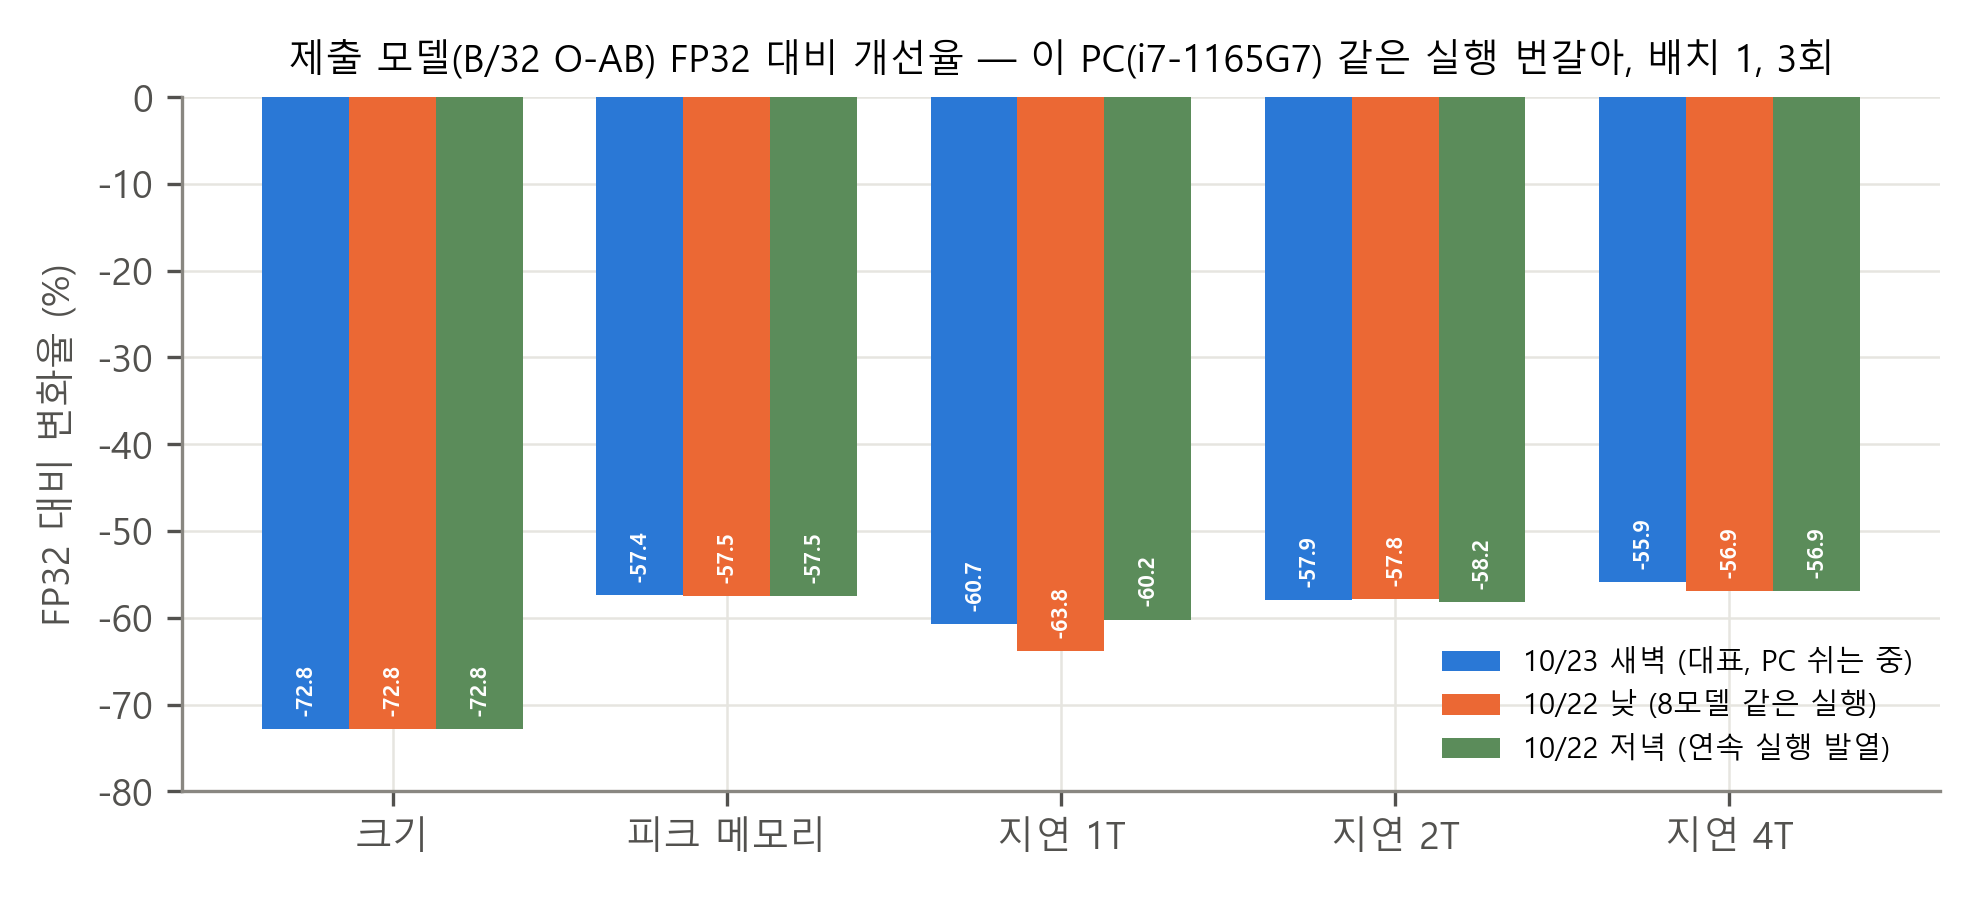
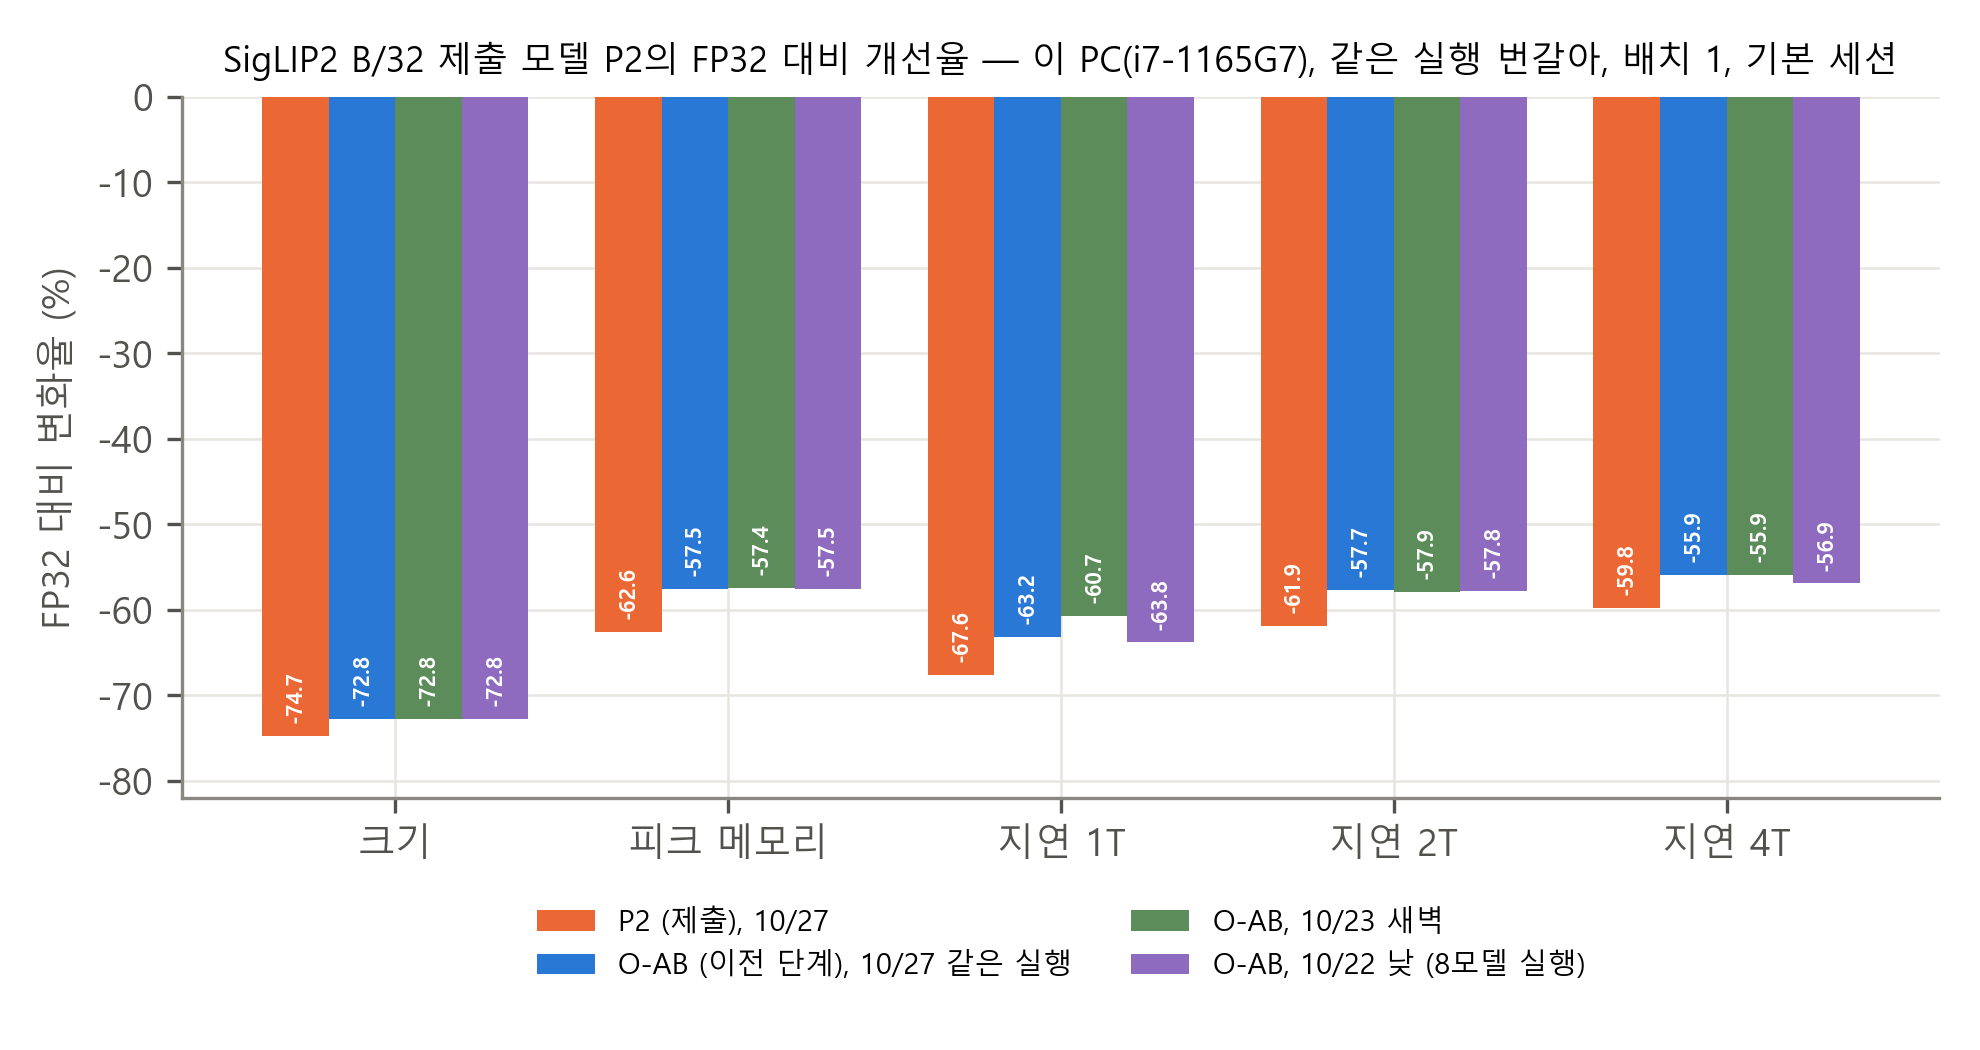
보고서·README v5: P2 기준 2차 반영 — F3b(P2 대표 + O-AB 3회), README 제출 파일·명령·기대값, 부록 B 설명 (test 값 대기)

diff --git a/siglip2/scripts/make_report_figs_b32.py b/siglip2/scripts/make_report_figs_b32.py
@@ -80,7 +80,7 @@ for name, (lat, p, key) in runs.items():
     f3[name] = {"크기": size, "피크 메모리": mem, "지연 1T": lat[1], "지연 2T": lat[2], "지연 4T": lat[4]}
 data["F3b"] = {"pct_vs_fp32": f3, "source": [str(p.relative_to(ROOT)) for _, p, _ in runs.values()]}
 items = list(next(iter(f3.values())))
-fig, ax = plt.subplots(figsize=(6.6, 3.0))
+fig, ax = plt.subplots(figsize=(6.6, 3.5))
 w = 0.2
 cols = ["#eb6834", "#2a78d6", "#5b8c5a", "#8e6bbf"]
 for i, (name, v) in enumerate(f3.items()):
@@ -92,7 +92,7 @@ ax.set_xticks(range(len(items)), items)
 ax.set_ylabel("FP32 대비 변화율 (%)")
 ax.set_ylim(-82, 0)
 ax.set_title("SigLIP2 B/32 제출 모델 P2의 FP32 대비 개선율 — 이 PC(i7-1165G7), 같은 실행 번갈아, 배치 1, 기본 세션", fontsize=8.5)
-ax.legend(fontsize=7, frameon=False, loc="lower right")
+ax.legend(fontsize=7, frameon=False, loc="upper center", bbox_to_anchor=(0.5, -0.12), ncol=2)
 fig.tight_layout()
 fig.savefig(OUT / "F3b_improvement_b32.png")
 plt.close(fig)

diff --git a/siglip2/README.md b/siglip2/README.md
@@ -1,41 +1,45 @@
 # SigLIP2 ViT-B/32 이미지 인코더 양자화 — 재현 방법
 
-대회 안내 4.2절 "재현용 코드 및 실행 환경"과 예선 결과보고서 9장에 해당하는 문서다 (v4, 2026-10-23 — 제출 모델 B/32 O-AB, D-048·D-049).
+대회 안내 4.2절 "재현용 코드 및 실행 환경"과 예선 결과보고서 9장에 해당하는 문서다 (v5, 2026-10-27 — 제출 모델 B/32 P2, D-048·D-052).
 실험 기록·결정은 `ROADMAP.md`, `DECISIONS.md`, `PROGRESS.md`, 결과는 루트 `results/siglip2/`에 있다.
 
-> **제출 모델 = SigLIP2 B/32 O-AB** (D-048·D-049): 레지스터 캐시 M2 + 회전 + O-A(MatMul 출력 재반올림 생략) + O-B(SkipLayerNorm 융합), 이미지 인코더 MatMul 79개 전부 INT8. 제출 모델 B/32의 test는 이 파일로 ORT 1회(`results/siglip2/G8_candidates/b32/test`), 본선 HEF로 Hailo 1회(준용 `B32_hef_test`) 썼다. 개발 초기 B/16 단계 이력은 보고서 부록 E.
+> **제출 모델 = SigLIP2 B/32 P2** (D-048·D-052): 레지스터 캐시 M2 + 회전 + O-A(MatMul 출력 재반올림 생략) + O-B(SkipLayerNorm 융합) + F2(GELU → FastGelu) + 패치 임베딩 정수화(정민 E14). 패치 임베딩을 포함한 행렬곱 80개 전부 INT8. 이전 제출 파일은 O-AB(`7a01044c…`, D-049)였다. B/32의 test는 ORT 2회(O-AB 10/22 `results/siglip2/G8_candidates/b32/test`, P2 10/27 `b32/test_p2`), 본선 HEF로 Hailo 1회(준용 `B32_hef_test`) 썼다. 교체는 test 전에 dev·지연·메모리로 확정했다(`b32/p2/README.md`). 개발 초기 B/16 단계 이력은 보고서 부록 E.
 > **본선 Hailo HEF**: 같은 PyTorch 모델(같은 회전 행렬·sink 규칙·M2 상수)에서 배치 1로 export한 FP32를 Hailo DFC로 컴파일한다. 본선 HEF는 GF로 정했다(D-050). ALL8F는 절제 실험이다 (준용 G6d·G6f·B32_hef_test).
 > **채점·재현은 배포한 ONNX 파일로 한다.** 다른 PC에서 다시 만들면 파일이 달라진다 (3절, 7절).
-> **onnxruntime으로 실행한다.** 제출 모델에 `com.microsoft` 연산(SkipLayerNormalization)이 있다.
+> **onnxruntime으로 실행한다.** 제출 모델에 `com.microsoft` 연산(SkipLayerNormalization 24, FastGelu 13)이 있다.
 
 ## 0. 무엇을 재현하나
 
 | 모델 | 파일 | 크기 | sha256 |
 |---|---|---|---|
 | 베이스라인 FP32 | `siglip2_image_fp32.onnx` | 378.36 MB (360.83 MiB) | `be19a8ada01055df…` |
[3 lines of base64/hex data omitted]
 | 비상 대체: M2rot INT8, 표준 연산만 (채점 환경이 com.microsoft 연산을 못 돌릴 때) | `siglip2_image_int8_g6b_b32_m2rot_percentile99999_highres256_s0_u8_ops-MatMul_hc16_rr_all.onnx` | 102.85 MB | `3a46ae8af54f3119…` (제출 모델과 같은 바탕 `23236123…`, 본선 HEF와 이어짐) |
 | (비교용) M2rot INT8, 이 PC 빌드 | `siglip2_image_int8_rcmaskbcmlp15at6u5-7at10u9_rothad_percentile99999_highres256_s0_u8_ops-MatMul_hc16_rr_all.onnx` | 102.85 MB | `9783d7defe8c0735…` (회전 행렬이 달라 본선 HEF와 이어지지 않음 — 대체 파일 아님) |
 
-- Release: 지금은 내부 확인용 pre-release `siglip2-b32-submit-20261023` (위 네 파일 + dev 6종 × 200장 묶음 + `portable_eval.py` + `SHA256SUMS*.txt` + 이 PC 결과 + 제출 파일을 만든 중간 파일 `23236123…` → `79e797c1…` → `506e9fe4…`). 최종 제출 Release는 따로 만든다.
-- 포맷: ONNX opset 17 + `com.microsoft` 1, 입력 `image` float32 N×3×256×256 (SigLIP2 전처리 후: 256×256, 평균·표준편차 0.5 정규화), 출력 `embedding` 768차원.
+- Release: 지금은 내부 확인용 pre-release 두 개다. `siglip2-b32-submit-20261023`(FP32·O-AB·M2rot 두 개 + dev 6종 × 200장 묶음 + `portable_eval.py` + `SHA256SUMS*.txt` + 이 PC 결과 + 중간 파일 `23236123…` → `79e797c1…` → `506e9fe4…`), `siglip2-p2-20261027`(P2, F2 `03f4de18…`, SHA256SUMS). 최종 제출 Release는 하나로 묶어 따로 만든다.
+- 제출 파일을 만드는 순서: O-AB `7a01044c…` → `e14/make_models_e14.py`(정민 브랜치 `jungmin/e14-graph`) → F2 `03f4de18…` → P2 `e465d10d…`. 세 PC에서 만든 파일의 sha가 같다.
+- 포맷: ONNX opset 17 + `com.microsoft` 1 (SkipLayerNormalization·FastGelu), 입력 `image` float32 N×3×256×256 (SigLIP2 전처리 후: 256×256, 평균·표준편차 0.5 정규화), 출력 `embedding` 768차원.
 - 실행: onnxruntime 1.25.0 CPU, 기본 그래프 최적화(`ORT_ENABLE_ALL`, 정수 커널).
-- 다른 CPU: 같은 묶음(1,200장)에서 x86 두 대(i7-1165G7 AVX-512 VNNI, Ultra 9 285K AVX-VNNI)는 제출 모델 사진 1장만 달랐다(정답 여부 같음). dev 전체 고화질 평균은 89.69 / 89.67%(Cars만 순 약 1장). ARM(Jetson AGX Orin)은 1,200장 중 25~26장(2.2%) 달랐지만 고화질 평균 Δ는 같았다. FP32는 세 대 모두 같았다 (`results/siglip2/G8_candidates/b32/xplat/compare_3way`).
+- 다른 CPU: 같은 묶음(1,200장)에서 x86 두 대(i7-1165G7 AVX-512 VNNI, Ultra 9 285K AVX-VNNI)는 제출 P2 사진 1장만 달랐다. dev 전체 고화질 평균은 i7 89.91%, 정민 258V·준용 285K 89.87%(CIFAR A·Food·Caltech 1~2장). ARM(Jetson AGX Orin)은 1,200장 중 4~5장(0.4%) 달랐고 고화질 평균 Δ는 285K와 같았다(이전 O-AB는 25~26장). FP32는 세 대 모두 같았다 (`results/siglip2/G8_candidates/b32/p2/xplat_i7/compare_p2_3way.json`).
+- 입력: 0~255 픽셀을 /127.5 − 1 한 값(open_clip 기본 전처리)일 때 P2의 첫 층 입력 양자화가 무손실이다.
 
 ## 1. 빠른 확인 (저장소 코드·데이터 없이, 내려받기 약 5분 + 실행 약 6분)
 
-numpy와 onnxruntime만 있으면 된다. dev 6종 × 200장 묶음으로 FP32와 제출 모델을 비교한다.
+numpy와 onnxruntime만 있으면 된다. dev 6종 × 200장 묶음으로 FP32와 제출 모델을 비교한다. (최종 제출 Release로 하나로 묶기 전까지는 두 Release에서 받는다)
 
 ```bash
 python -m pip install numpy==2.4.4 onnxruntime==1.25.0
 gh release download siglip2-b32-submit-20261023 --repo jungminmobile/oslab_mobile -D release
-cd release && sha256sum -c SHA256SUMS.txt && cd ..
+gh release download siglip2-p2-20261027 --repo jungminmobile/oslab_mobile -p e14_4_P2_patch_int8.onnx -D release
+cd release && sha256sum -c SHA256SUMS.txt && sha256sum e14_4_P2_patch_int8.onnx && cd ..   # P2: e465d10d…
 python release/portable_eval.py --data release --out out_quick --threads 4 \
   --models fp32=release/siglip2_image_fp32.onnx \
-           oab=release/siglip2_image_int8_g6b_b32_m2rot_o1b_percentile99999_highres256_s0_u8_ops-MatMul_hc16_rr_moq0_all.onnx
+           p2=release/e14_4_P2_patch_int8.onnx
 ```
-- 기대 출력 (`out_quick/result.json`): 제출 모델 고화질 5종 cos **0.9893**, Δtop-1 **+0.4%p** (각 200장), CIFAR A 71.0 (FP32 71.5). 기준값 `release/result_i7-1165G7.json`.
-- 확인 기록: 깨끗한 폴더에서 이 순서 그대로 실행해 사진 1,200장의 예측이 비트 단위로 같음 (`results/siglip2/G8_candidates/b32/xplat/repro_check`).
+- 기대 출력 (`out_quick/result.json`): 제출 P2 고화질 5종 cos **0.9884**, Δtop-1 **+0.4%p** (각 200장, 285K·AGX는 +0.3), CIFAR A 73.0 (FP32 71.5). 이 PC 결과 `results/siglip2/G8_candidates/b32/p2/xplat_i7/result.json`.
+- 확인 기록: 깨끗한 폴더에서 이 순서 그대로 실행해 사진 1,200장의 예측이 비트 단위로 같음 (이전 제출 파일 O-AB 기준, `results/siglip2/G8_candidates/b32/xplat/repro_check`).
 - `gh`가 없으면 GitHub Release 페이지에서 파일을 받아 `release/` 폴더 하나에 둔다.
 
 ## 2. 환경 (전체 재현)
@@ -61,7 +65,8 @@ mkdir -p $SIGLIP2_ARTIFACTS/onnx && cp release/*.onnx $SIGLIP2_ARTIFACTS/onnx/  
 3. 레지스터 캐시 M2 + 회전, 통일 규칙 `15@6:5, 7@10:9` (보정 train 256장, 시드 0):
    `python s2_regcache.py cache --rot rothad --sinks 15@6:5,7@10:9` → `ucache` → `export --graph mask --mask-form bcast --mask-site mlp --rot rothad`
 4. INT8 (M2rot): `python s2_quantize.py --src <M2rot FP32> --calib-source highres --calib-n 256 --op-types MatMul --method percentile --percentile 99.999 --hist-chunk 16 --act-type u8 --reduce-range --tag all --dump-ops`
-5. O-A·O-B(제출 모델): 준용 브랜치 `siglip2/o1-ort-speed`의 O1 절차 (`results/siglip2/O1/README.md`) — O-B 그래프 융합(SkipLayerNormalization) 뒤 4와 같은 옵션 + MatMul 출력 양자화 제외(`OpTypesToExcludeOutputQuantization=["MatMul"]`)
+5. O-A·O-B(이전 제출 파일 O-AB): 준용 브랜치 `siglip2/o1-ort-speed`의 O1 절차 (`results/siglip2/O1/README.md`) — O-B 그래프 융합(SkipLayerNormalization) 뒤 4와 같은 옵션 + MatMul 출력 양자화 제외(`OpTypesToExcludeOutputQuantization=["MatMul"]`)
+6. F2·P2(제출 모델): 정민 브랜치 `jungmin/e14-graph`의 `e14/make_models_e14.py` (`E14_O_ONNX`=O-AB 경로, `E14_WORK`=출력 폴더) — O-AB에서 GELU 융합(F2) → 패치 임베딩 Conv를 자르기 + INT8 MatMul로(P2). 양자화를 다시 하지 않는 그래프 변환이라 같은 O-AB에서는 어느 PC에서나 같은 파일이 나온다(세 PC sha 일치)
 
 **같은 PC에서는 다시 만들어도 같은 파일이 나오지만, 다른 PC에서는 다른 파일이 나온다.** float64 행렬 곱 반올림이 CPU·OpenBLAS 커널에 따라 달라 회전 행렬부터 달라진다 (`results/siglip2/G8_candidates/repro_fingerprint`). 같은 레시피 B/32 M2rot이 두 PC에서 dev −0.79 / −0.87이었다. 그래서 **채점·재현은 배포 파일**로 한다.
 
@@ -70,9 +75,9 @@ mkdir -p $SIGLIP2_ARTIFACTS/onnx && cp release/*.onnx $SIGLIP2_ARTIFACTS/onnx/  
 ```bash
 cd siglip2
 python s2_build_dev.py all --threads 4        # dev 캐시·텍스트 분류기·FP32 기준 (데이터 자동 다운로드, 처음 1~2시간)
-RN50_RESULTS=../results/siglip2/repro_b32_dev python s2_paired_ci.py --models siglip2_image_int8_g6b_b32_m2rot_o1b_percentile99999_highres256_s0_u8_ops-MatMul_hc16_rr_moq0_all.onnx
+RN50_RESULTS=../results/siglip2/repro_b32_dev python s2_paired_ci.py --models e14_4_P2_patch_int8.onnx
 ```
-- 기대값: FP32 고화질 89.96%, 제출 모델 89.69% (Δ **−0.27 [−0.62, +0.09]**), cos 0.989, CIFAR A −0.5. 출력: `paired_ci.jsonl`, 사진별 예측 `pred_<모델>.npz`.
+- 기대값: FP32 고화질 89.96%, 제출 P2 89.91% (Δ **−0.05 [−0.41, +0.33]**), cos 0.988, CIFAR A −0.2 (이 PC i7. 다른 x86에서는 89.87%). 출력: `paired_ci.jsonl`, 사진별 예측 `pred_<모델>.npz`.
 - `paired_ci.jsonl`은 이어 쓰기라 재현할 때는 새 결과 폴더를 지정한다.
 
 ## 5. 정확도 — test (최종 1회)
@@ -80,12 +85,12 @@ RN50_RESULTS=../results/siglip2/repro_b32_dev python s2_paired_ci.py --models si
 ```bash
 for s in pets caltech flowers cars food cifar_test imagenetv2; do
   RN50_RESULTS=../results/siglip2/repro_b32_test python s2_test_eval.py $s --threads 4 \
-    --models siglip2_image_int8_g6b_b32_m2rot_o1b_percentile99999_highres256_s0_u8_ops-MatMul_hc16_rr_moq0_all.onnx
+    --models e14_4_P2_patch_int8.onnx
 done
 RN50_RESULTS=../results/siglip2/repro_b32_test python s2_test_summary.py
 ```
 - test 7종: Oxford Pets·Flowers-102·Stanford Cars·Food-101·Caltech-101 공식 test 전체, CIFAR-100 test(1만), ImageNetV2 matched-frequency(1만, `scripts/test_g6.sh`가 받음).
-- 기대값: 고화질 5종 평균 FP32 88.51% → 88.28%, Δ **−0.23 [−0.36, −0.08]%p**. CIFAR-100 +0.93, ImageNetV2 −0.20%p.
+- 기대값: [확인 필요: P2 test 결과 — 10/27 실행 중]. (이전 제출 파일 O-AB: 88.51% → 88.28%, Δ −0.23 [−0.36, −0.08]%p)
 - 시간: 4코어 노트북에서 약 3시간 15분 (FP32와 INT8을 함께 잼, ImageNetV2 불러오기 약 30분 포함). 데이터셋마다 `done_<set>.json`이 있으면 다시 돌지 않는다.
 
 ## 6. 속도·메모리·크기
@@ -93,10 +98,10 @@ RN50_RESULTS=../results/siglip2/repro_b32_test python s2_test_summary.py
 ```bash
 python scripts/cross_latency.py --out out_speed --mem \
   --models b32_fp32=$SIGLIP2_ARTIFACTS/onnx/siglip2_image_fp32.onnx \
-           b32_oab=$SIGLIP2_ARTIFACTS/onnx/siglip2_image_int8_g6b_b32_m2rot_o1b_percentile99999_highres256_s0_u8_ops-MatMul_hc16_rr_moq0_all.onnx
+           b32_p2=$SIGLIP2_ARTIFACTS/onnx/e14_4_P2_patch_int8.onnx
 ```
 - 배치 1, 워밍업 20, 200장 × 3회 모델 번갈아, 스레드 1·2·4 × 세션 3 → 중앙값. 전원 구성표·충전 상태가 결과에 기록된다.
-- 기대값: FP32 대비 4스레드 약 −55~−57%, 1스레드 약 −60~−65% (절대 ms는 PC·실행마다 다름, 같은 PC에서도 2·4스레드 최대 약 40%), 피크 메모리 약 −57% (ORT 기본 세션), 크기 378.36 → 102.76 MB (−72.8%). 보고서 대표값은 10/23 새벽 실행(4스레드 −55.9%, 1스레드 −60.7%, 메모리 −57.4%).
+- 기대값: FP32 대비 4스레드 약 −60%, 1스레드 약 −68% (절대 ms는 PC·실행마다 다름, 같은 PC에서도 2·4스레드 최대 약 40%), 피크 메모리 약 −63% (ORT 기본 세션), 크기 378.36 → 95.65 MB (−74.7%). 보고서 대표값은 10/27 실행(4스레드 −59.8%, 1스레드 −67.6%, 메모리 −62.6%, `results/siglip2/G8_candidates/latency_this_pc/b32_p2_20261027`).
 - **지연은 같은 실행 안의 FP32 대비 비율로 본다.** 노트북은 고성능 모드·충전 상태, 다른 프로그램 없이.
 - (선택 사항) ORT 세션 설정 `enable_mem_pattern=False`(정민 E12-1, 브랜치 `exp/E12-1-jjury`)를 쓰면 제출 모델 피크 메모리가 4.0% 더 준다(같은 E12-1 스크립트로 214.5 → 206.0 MiB, 출력 비트 동일, `results/siglip2/G8_candidates/b32/submit_prep/mem_pattern`). 우리 스크립트로 실행할 때만 적용되고 채점 측이 세션을 직접 만들면 적용되지 않으므로, 보고서 메모리 수치는 기본 세션 값이다.
 

diff --git a/siglip2/docs/report_prelim_v9.md b/siglip2/docs/report_prelim_v9.md
@@ -493,7 +493,7 @@ python scripts/cross_latency.py --out out_speed --mem \
 1. `F1_sensitivity.png` 민감도 지도(블록·연산별 cos) → 5.3 단계 2
 2. `F4b_min_snr_vs_acc.png` 배포 눈금 층별 SNR(가장 나쁜 층·평균) vs dev 정확도 손실, 5구성 → 5.3 단계 5
 3. `F2_ablation_2x2.png` 2×2 단독 효과 → 5.1·5.3 단계 4
-4. `F3b_improvement_b32.png` 제출 모델 FP32 대비 개선율(크기·메모리·지연 1/2/4T), 이 PC 3회(10/23 새벽 대표) → 2장 또는 6.5
+4. `F3b_improvement_b32.png` 제출 모델 P2의 FP32 대비 개선율(크기·메모리·지연 1/2/4T, 10/27 대표 실행)과 이전 단계 O-AB 3회(비율 안정성) → 2장 또는 6.5
 5. `F5_hailo_b32.png` Hailo-10H 실칩 배치 1 지연 vs dev 정확도(Zoo 공개 HEF Z, G, GF, ALL8F, 같은 세션) → 부록 F.2
 - `F3_improvement.png`·`F4_activation_snr.png`는 개발 초기 모델 시절 그림이라 쓰지 않는다.
 
